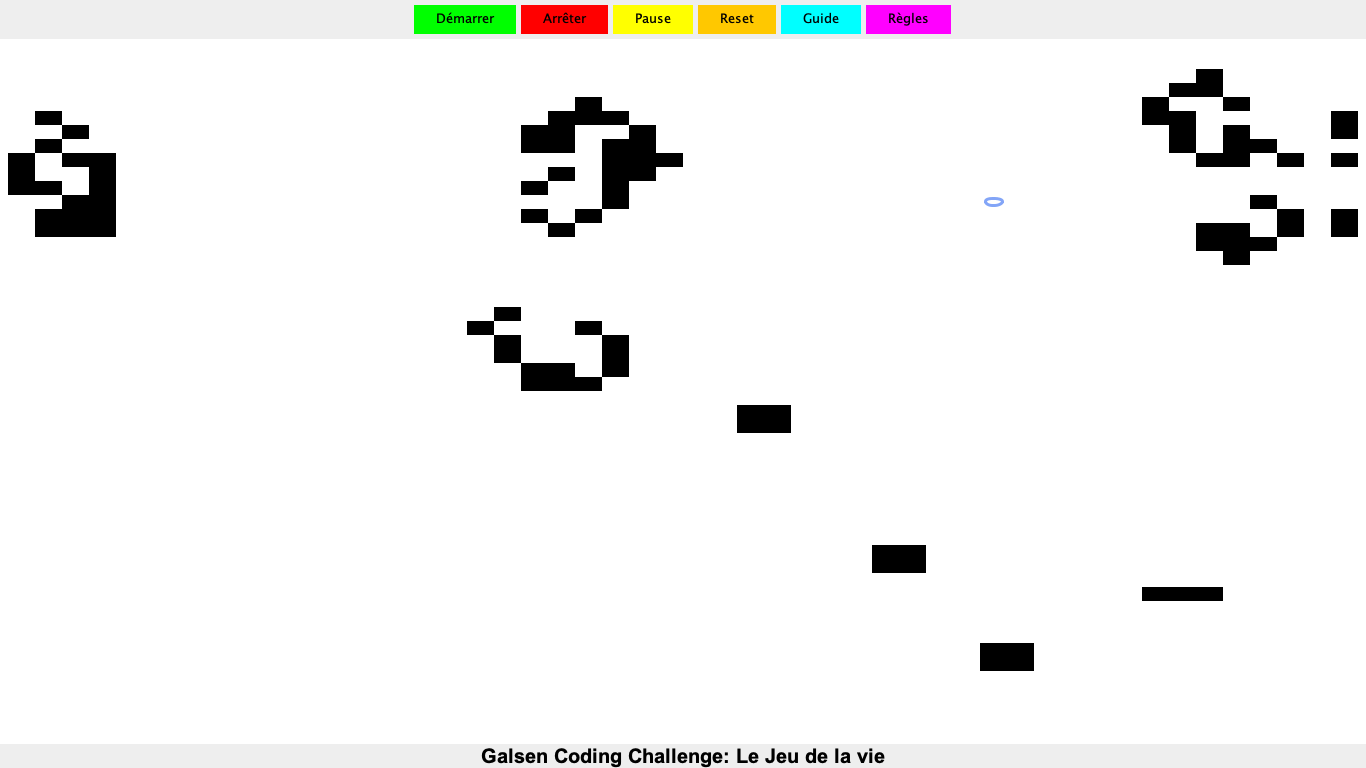
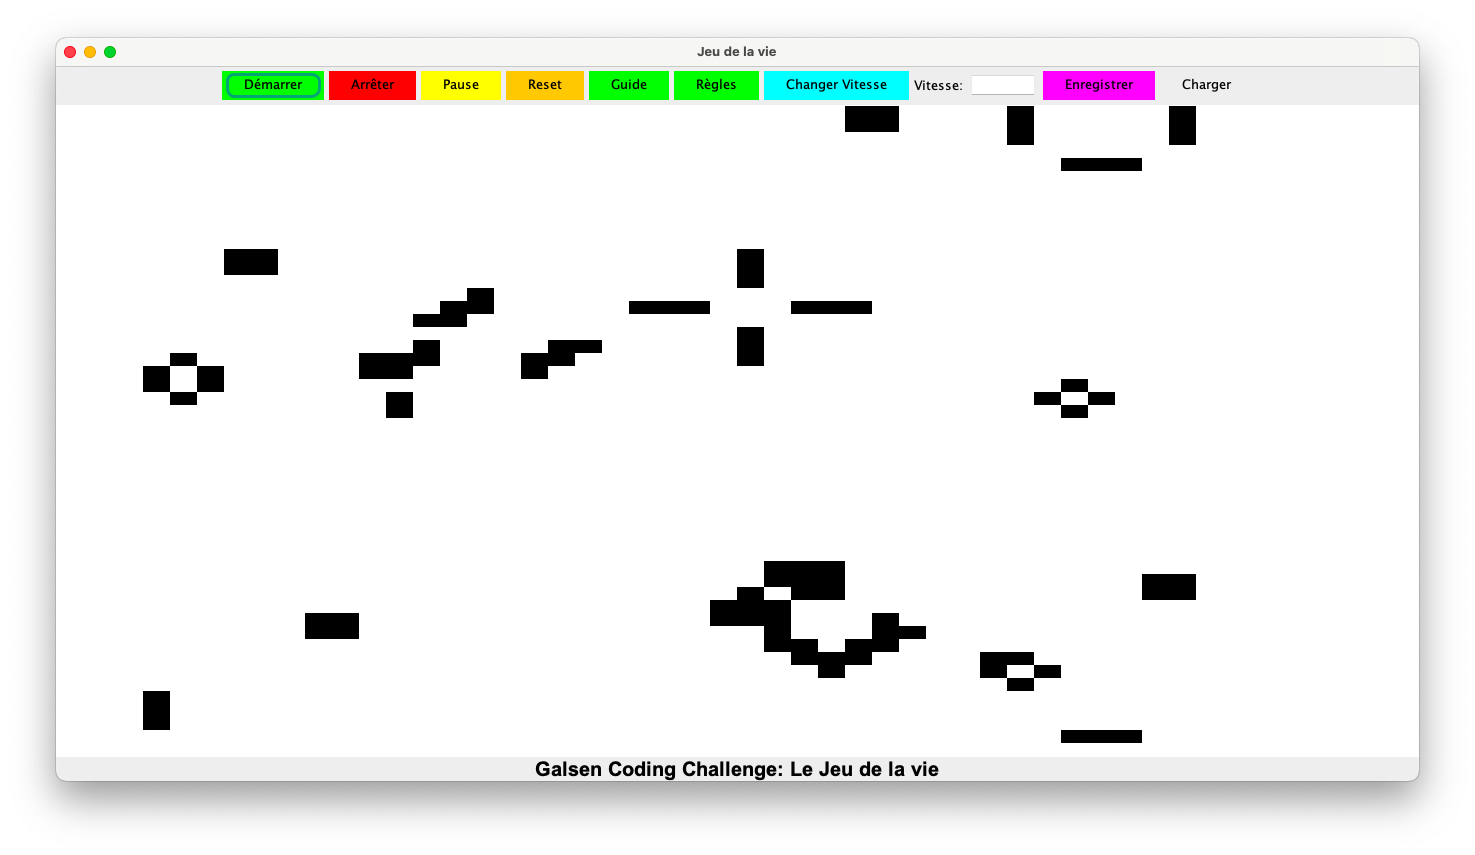
ajout nouvelles fonctionnalités

diff --git a/src/views/GameUI.java b/src/views/GameUI.java
@@ -5,6 +5,8 @@ import controllers.GameLogic;
 import java.awt.*;
 import java.awt.event.ActionEvent;
 import java.awt.event.ActionListener;
+import java.io.*;
+import java.util.Scanner;
 
 public class GameUI extends JFrame {
     private static final long serialVersionUID = 1L;
@@ -14,7 +16,8 @@ public class GameUI extends JFrame {
     private Timer timer;
     private int tempo = 500;
 
-    private JButton demarrerBtn, arreterBtn, pauseBtn, resetBtn, guideBtn, reglesBtn;
+    private JButton demarrerBtn, arreterBtn, pauseBtn, resetBtn, guideBtn, reglesBtn, changerVitesseBtn, enregistrerBtn, chargerBtn;
+    private JTextField vitesseField;
 
     private final String reglesText = "Le Jeu de la Vie est un automate cellulaire imaginé par John Conway.\n" +
             "Les cellules vivantes évoluent à chaque étape selon les règles suivantes :\n" +
@@ -79,14 +82,28 @@ public class GameUI extends JFrame {
         reglesBtn.addActionListener(e -> regles());
         boutonsPanel.add(reglesBtn);
 
+        changerVitesseBtn = new JButton("Changer Vitesse");
+        changerVitesseBtn.addActionListener(e -> changerVitesse());
+        boutonsPanel.add(changerVitesseBtn);
+
+        vitesseField = new JTextField(5);
+        boutonsPanel.add(new JLabel("Vitesse:"));
+        boutonsPanel.add(vitesseField);
+
+        enregistrerBtn = new JButton("Enregistrer");
+        enregistrerBtn.addActionListener(e -> enregistrer());
+        boutonsPanel.add(enregistrerBtn);
+
+        chargerBtn = new JButton("Charger");
+        chargerBtn.addActionListener(e -> charger());
+        boutonsPanel.add(chargerBtn);
+
         add(boutonsPanel, BorderLayout.NORTH);
 
-        // Ajout du titre
         JLabel titleLabel = new JLabel("Galsen Coding Challenge: Le Jeu de la vie", JLabel.CENTER);
         titleLabel.setFont(new Font("Arial", Font.BOLD, 20));
         add(titleLabel, BorderLayout.SOUTH);
 
-        // Styliser les boutons avec des couleurs différentes
         guideBtn.setBackground(Color.GREEN);
         guideBtn.setOpaque(true);
         guideBtn.setBorderPainted(false);
@@ -105,9 +122,15 @@ public class GameUI extends JFrame {
         resetBtn.setBackground(Color.ORANGE);
         resetBtn.setOpaque(true);
         resetBtn.setBorderPainted(false);
-        guideBtn.setBackground(Color.CYAN);
-        reglesBtn.setBackground(Color.MAGENTA);
-        reglesBtn.setBorderPainted(false);
+        changerVitesseBtn.setBackground(Color.CYAN);
+        changerVitesseBtn.setOpaque(true);
+        changerVitesseBtn.setBorderPainted(false);
+        enregistrerBtn.setBackground(Color.MAGENTA);
+        enregistrerBtn.setOpaque(true);
+        enregistrerBtn.setBorderPainted(false);
+        chargerBtn.setBackground(Color.MAGENTA);
+        chargerBtn.setBackground(Color.MAGENTA);
+        chargerBtn.setBorderPainted(false);
 
         timer = new Timer(tempo, new ActionListener() {
             public void actionPerformed(ActionEvent evt) {
@@ -119,13 +142,14 @@ public class GameUI extends JFrame {
         timer.start();
 
         setDefaultCloseOperation(JFrame.EXIT_ON_CLOSE);
-        setSize(1000, 1000); // Définir la taille initiale
+        setSize(1000, 1000); 
         setTitle("Jeu de la vie");
         setLocationRelativeTo(null);
         setVisible(true);
     }
 
     private void demarrer() {
+        timer.setDelay(tempo);
         timer.start();
     }
 
@@ -138,6 +162,7 @@ public class GameUI extends JFrame {
     }
 
     private void reset() {
+        timer.stop();
         gameLogic.initHasard();
         updateUI();
     }
@@ -150,22 +175,87 @@ public class GameUI extends JFrame {
         JOptionPane.showMessageDialog(null, reglesText, "Règles", JOptionPane.INFORMATION_MESSAGE);
     }
 
-    private void updateUI() {
-        SwingUtilities.invokeLater(() -> {
-            for (int i = 0; i < taille; i++) {
-                for (int j = 0; j < taille; j++) {
-                    models.Cellule cell = gameLogic.getGrille()[i][j];
-                    if (cell.isVivante()) {
+    private void changerVitesse() {
+        try {
+            int nouvelleVitesse = Integer.parseInt(vitesseField.getText());
+            if (nouvelleVitesse > 0) {
+                tempo = nouvelleVitesse;
+                timer.setDelay(tempo);
+            } else {
+                JOptionPane.showMessageDialog(null, "Veuillez entrer une valeur de vitesse valide (entier positif).", "Erreur", JOptionPane.ERROR_MESSAGE);
+            }
+        } catch (NumberFormatException ex) {
+            JOptionPane.showMessageDialog(null, "Veuillez entrer une valeur numérique valide pour la vitesse.", "Erreur", JOptionPane.ERROR_MESSAGE);
+        }
+    }
 
-                 buttons[i][j].setBackground(Color.BLACK);
-                 buttons[i][j].setOpaque(true);
-                 buttons[i][j].setBorderPainted(false);
+    private void enregistrer() {
+        try {
+            BufferedWriter writer = new BufferedWriter(new FileWriter("config.txt"));
+            writer.write(Integer.toString(tempo));
+            writer.newLine();
+            writer.write(Integer.toString(gameLogic.getTaille()));
+            writer.newLine();
+            for (int i = 0; i < gameLogic.getTaille(); i++) {
+                for (int j = 0; j < gameLogic.getTaille(); j++) {
+                    if (gameLogic.getGrille()[i][j].isVivante()) {
+                        writer.write("1");
                     } else {
-                buttons[i][j].setBackground(Color.WHITE);
+                        writer.write("0");
+                    }
+                }
+                writer.newLine();
+            }
+            writer.close();
+            JOptionPane.showMessageDialog(null, "Configuration enregistrée avec succès.", "Succès", JOptionPane.INFORMATION_MESSAGE);
+        } catch (IOException ex) {
+            JOptionPane.showMessageDialog(null, "Erreur lors de l'enregistrement de la configuration.", "Erreur", JOptionPane.ERROR_MESSAGE);
+        }
+    }
+
+    private void charger() {
+        try {
+            Scanner scanner = new Scanner(new File("config.txt"));
+            tempo = Integer.parseInt(scanner.nextLine());
+            timer.setDelay(tempo);
+            int nouvelleTaille = Integer.parseInt(scanner.nextLine());
+            if (nouvelleTaille != gameLogic.getTaille()) {
+                JOptionPane.showMessageDialog(null, "La taille de la grille ne correspond pas à la configuration enregistrée.", "Erreur", JOptionPane.ERROR_MESSAGE);
+                return;
+            }
+            for (int i = 0; i < nouvelleTaille; i++) {
+                String ligne = scanner.nextLine();
+                for (int j = 0; j < nouvelleTaille; j++) {
+                    if (ligne.charAt(j) == '1') {
+                        gameLogic.getGrille()[i][j].setVivante(true);
+                        gameLogic.getGrille()[i][j].switchColor();
+                    } else {
+                        gameLogic.getGrille()[i][j].setVivante(false);
                     }
                 }
             }
-            // Forcer le rafraîchissement de l'interface graphique
+            scanner.close();
+            updateUI();
+            JOptionPane.showMessageDialog(null, "Configuration chargée avec succès.", "Succès", JOptionPane.INFORMATION_MESSAGE);
+        } catch (FileNotFoundException ex) {
+            JOptionPane.showMessageDialog(null, "Aucune configuration enregistrée trouvée.", "Erreur", JOptionPane.ERROR_MESSAGE);
+        }
+    }
+
+    private void updateUI() {
+        SwingUtilities.invokeLater(() -> {
+            for (int i = 0; i < gameLogic.getTaille(); i++) {
+                for (int j = 0; j < gameLogic.getTaille(); j++) {
+                    models.Cellule cell = gameLogic.getGrille()[i][j];
+                    if (cell.isVivante()) {
+                        buttons[i][j].setBackground(Color.BLACK);
+                        buttons[i][j].setOpaque(true);
+                        buttons[i][j].setBorderPainted(false);
+                    } else {
+                        buttons[i][j].setBackground(Color.WHITE);
+                    }
+                }
+            }
             repaint();
         });
     }
@@ -185,9 +275,5 @@ public class GameUI extends JFrame {
         }
     }
 
-    public static void main(String[] args) {
-        SwingUtilities.invokeLater(() -> {
-            new GameUI();
-        });
-    }
+   
 }

diff --git a/src/controllers/GameLogic.java b/src/controllers/GameLogic.java
@@ -65,8 +65,8 @@ public class GameLogic {
     public Cellule[][] getGrille() {
         return grille;
     }
-public int getTaille() {
-    return taille;
-}
 
+    public int getTaille() {
+        return taille;
+    }
 }

diff --git a/readme.md b/readme.md
@@ -35,18 +35,16 @@ Le package `Contoller` contient la classe `GameLogic`, qui représente la logiqu
 Assurez-vous d'avoir Java JDK installé sur votre machine.
 
 ```bash
-cd src
-javac -d ../bin controllers/*.java models/*.java views/*.java Main.java
-
+   javac -d bin src/**/*.java
+   javac -d bin -cp bin src/Main.java
 ```
 
 ### Exécution
 
 ```bash
-java -cp ../bin Main
+java -cp bin Main
 ```
 ### Creation du Jar 
-cd ..
 jar cfm JeuDeLaVie.jar Manifest.txt -C bin .
 
 ### Execution deu Jar
